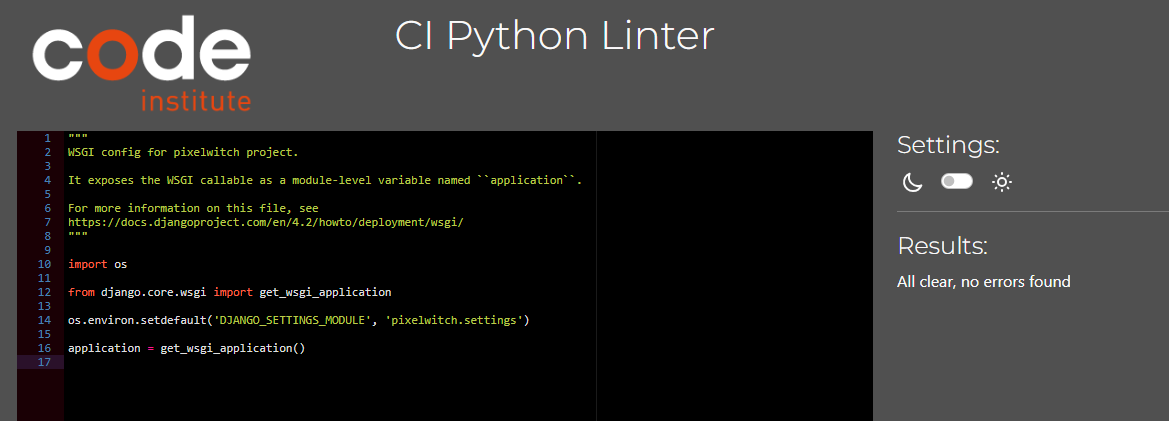
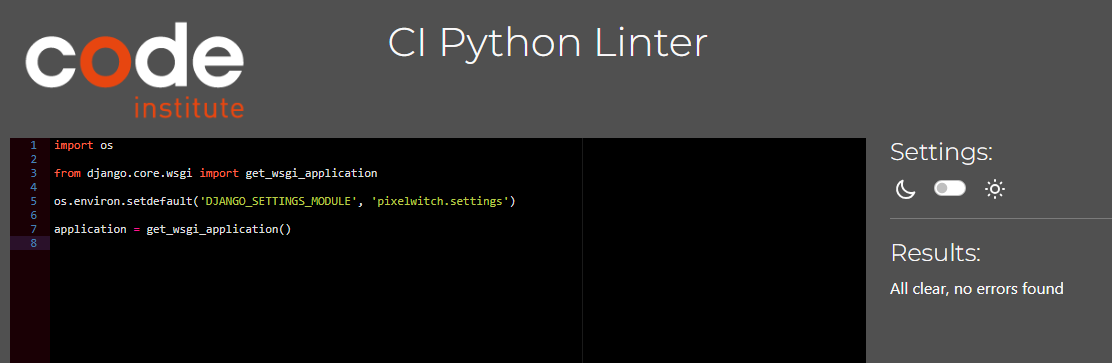
update testing.md

Changed region(s): [[0.0, 0.0303, 0.9784, 1.0], [0.3363, 0.0303, 0.6421, 0.1818]]

diff --git a/pixelwitch/wsgi.py b/pixelwitch/wsgi.py
@@ -1,12 +1,3 @@
-"""
-WSGI config for pixelwitch project.
-
-It exposes the WSGI callable as a module-level variable named ``application``.
-
-For more information on this file, see
-https://docs.djangoproject.com/en/4.2/howto/deployment/wsgi/
-"""
-
 import os
 
 from django.core.wsgi import get_wsgi_application

diff --git a/testing.md b/testing.md
@@ -78,8 +78,10 @@
 
 ### Python
 - The [CI Python Linter](https://pep8ci.herokuapp.com/) was used to validate the Python files.
-- admin.py
+- account/admin.py
 - ![PEP8 screenshot](static/manifest/images/admin.pyPEP8.png)
+- manifest/admin.py
+- ![PEP8 screenshot](static/manifest/images/manifest-admin.pyPEP8.png)
 - account/apps.py
 - ![PEP8 screenshot](static/manifest/images/apps.pyPEP8.png)
 - manifest/apps.py
@@ -94,7 +96,7 @@
 - ![PEP8 screenshot](static/manifest/images/manifest-models.pyPEP8.png)
 - settings.py
 - ![PEP8 screenshot](static/manifest/images/setting.pyPEP8.png)
-- Lines 104, 107, 110, and 113 were considered too long by PEP8. These lines cannot be shortened in a way that improves readability. Even though error exists, the app still functions. 
+- Lines 104, 107, 110, and 113 were considered too long by PEP8. These lines cannot be shortened in a way that improves readability. Even though it shows an error, the app still functions. 
 - pixelwitch/urls.py
 - ![PEP8 screenshot](static/manifest/images/pixelwitch-urls.pyPEP8.png)
 - manifest/urls.py
